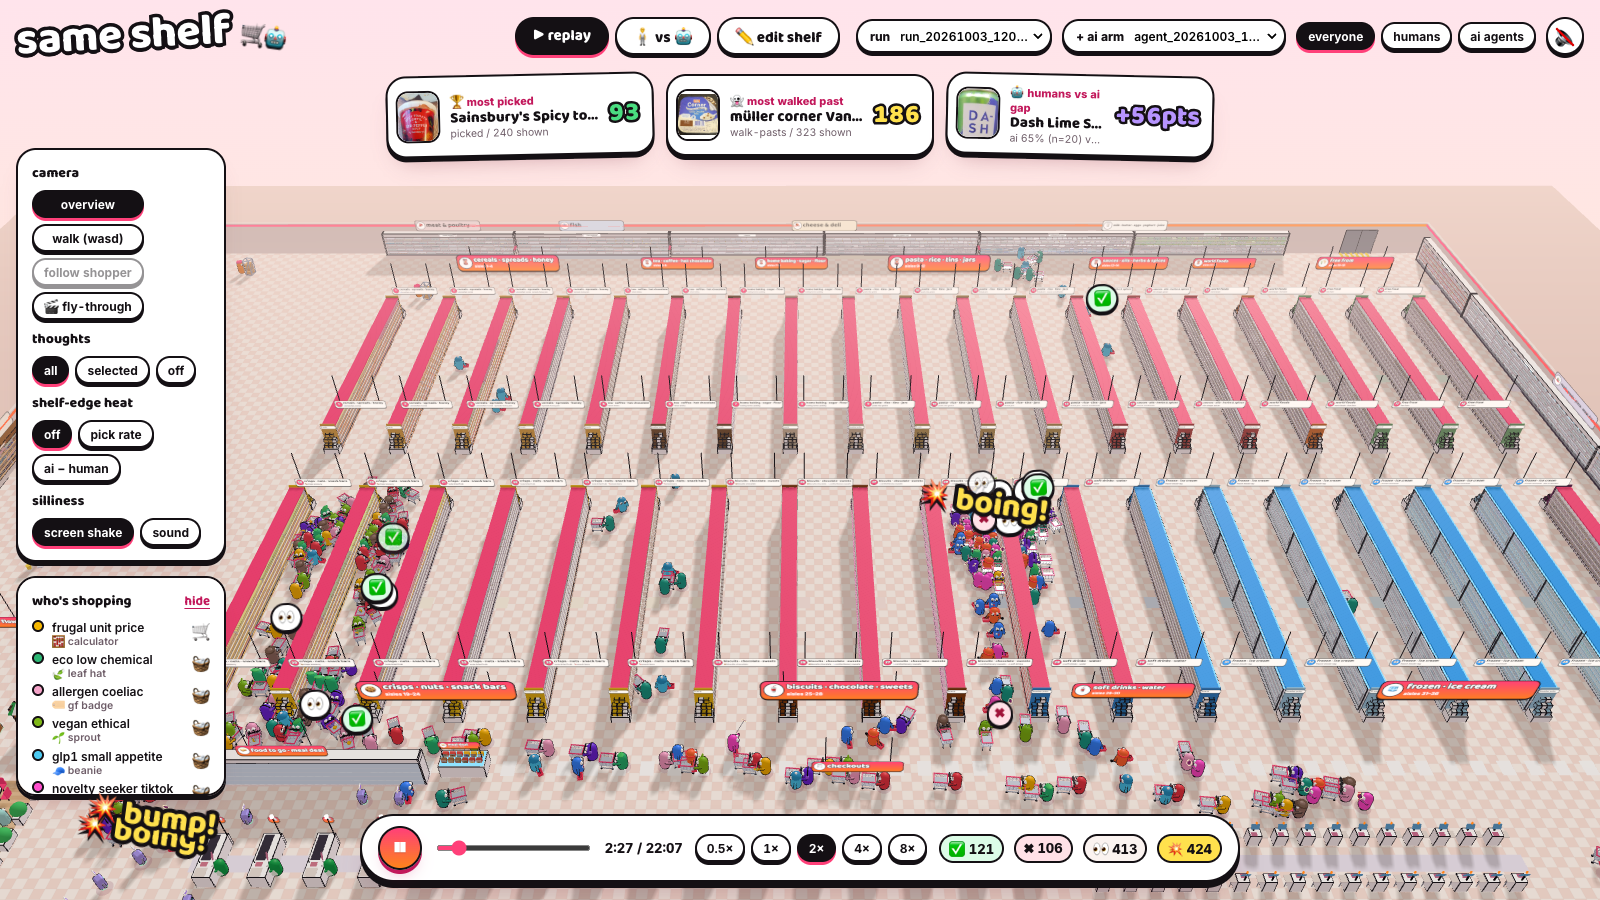
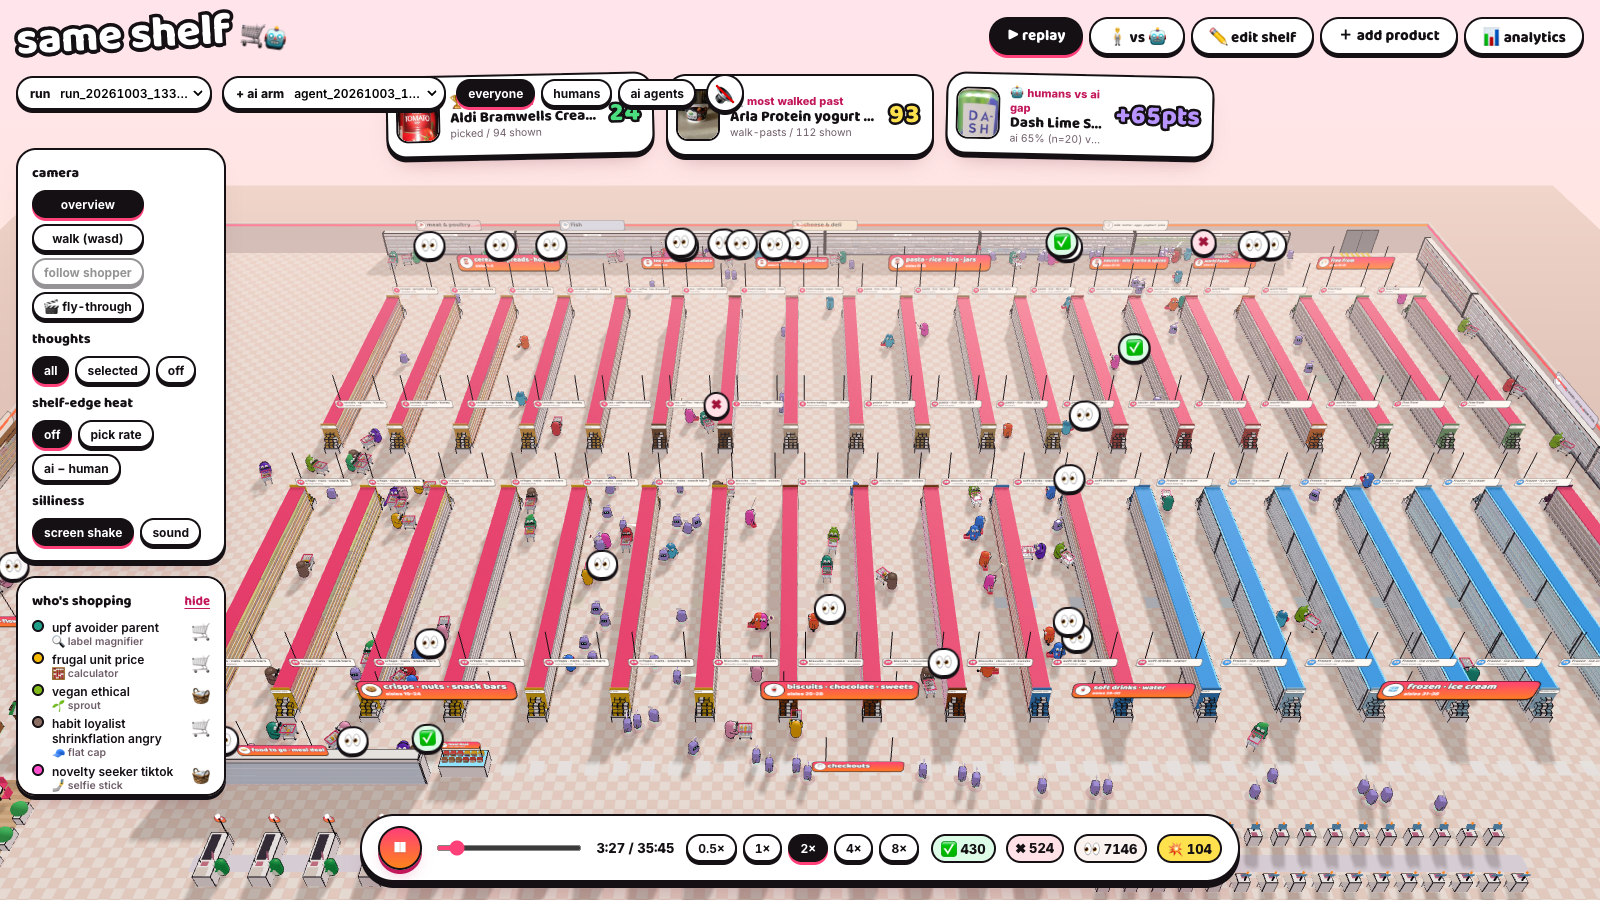
3D layout: real superstore from config (2 blocks, long continuous aisles, connected walkways, checkout bank, stockroom), mission-driven congestion-aware routes, FIFO queues + shared self-checkout snake
Claude-Session: https://claude.ai/code/session_01Qo2myR8x2ZVjFcdCtNs1aY

diff --git a/web/src/scene/Cafe.tsx b/web/src/scene/Cafe.tsx
@@ -108,8 +108,8 @@ export function Cafe({ cfg, live, products }: Props) {
   const camera = useThree((s) => s.camera), controls = useThree((s) => s.controls) as unknown as { target: THREE.Vector3; update: () => void } | null;
   useEffect(() => {
     const w = window as unknown as { __cafe?: Record<string, unknown> };
-    w.__cafe = { ...(w.__cafe ?? {}), pool, plan: c, focus: () => { camera.position.set(c.x + c.w * 0.25, 8.5, c.z + c.d * 0.5 + 1.5); controls?.target.set(c.x, 0.4, c.z - c.d * 0.12); controls?.update(); } };
-  }, [camera, controls, c, pool]);
+    w.__cafe = { ...(w.__cafe ?? {}), pool, plan: c, t: () => live.current.t, focus: () => { camera.position.set(c.x + c.w * 0.25, 8.5, c.z + c.d * 0.5 + 1.5); controls?.target.set(c.x, 0.4, c.z - c.d * 0.12); controls?.update(); } };
+  }, [camera, controls, c, pool, live]);
 
   const setPhase = (d: D, ph: Phase, t: number, path: XZ[] = []) => { d.phase = ph; d.tPhase = t; d.path = path; };
   const freeSeat = () => fillOrder.find((si) => seatBy.current[si] < 0);

diff --git a/web/src/layout.ts b/web/src/layout.ts
@@ -1355,6 +1355,11 @@ export function scheduleCheckouts(cfg: StoreConfig, tls: Record<string, Timeline
       const tJoin = t;
       let pos = queueSlotPos(sp, group, kq);
       go({ ...pos, walkway: null }, 'queue', group === 'self' ? selfL[0]?.id : group);
+      // someone may have been called while we walked up: close the gap so slot k always means k people ahead
+      for (let guard = 0; guard < 4; guard++) {
+        const k2 = ahead(group, t); if (k2 >= kq) break;
+        kq = k2; pos = queueSlotPos(sp, group, kq); go({ ...pos, walkway: null }, 'queue', group === 'self' ? selfL[0]?.id : group);
+      }
       // ---- service start: FIFO behind everyone already in this line
       const prev = starts[group].length ? Math.max(...starts[group]) : 0;
       let L = choice.L;
